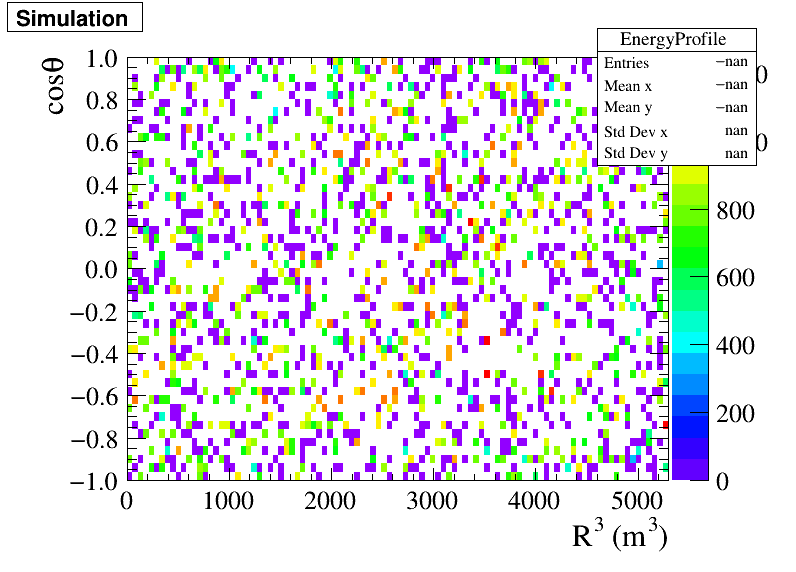
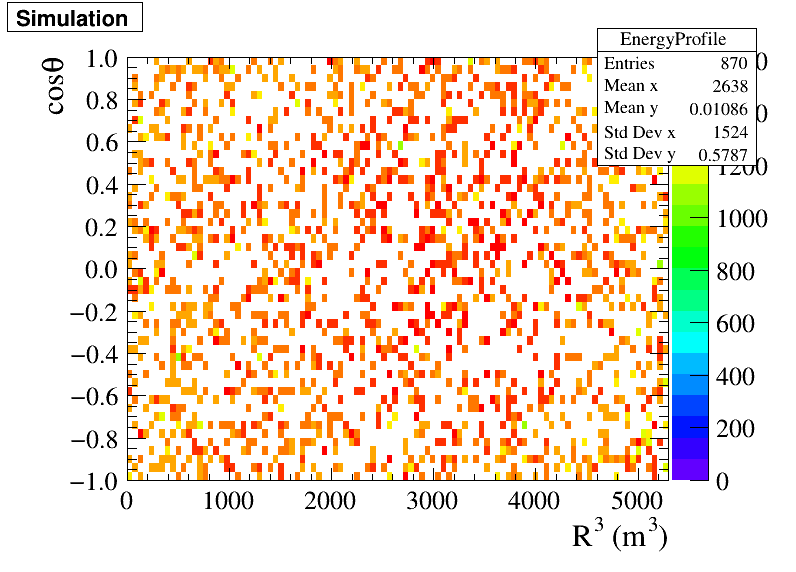
finally there

diff --git a/Roottest/EnergyLeakage/GetPE2R3.h b/Roottest/EnergyLeakage/GetPE2R3.h
@@ -24,8 +24,8 @@
 class GetPE2R3 : public TSelector
 {
 public:
-   TTreeReader evtReader;         //!the tree reader
-   TTree *evt = 0;           //!pointer to the analyzed TTree or TChain
+   TTree *evt = 0;              //!pointer to the analyzed TTree or TChain
+   TTreeReader evtReader;       //!the tree reader
    TTree *prmtrkdep = 0;        //tree friend
    TTreeReader prmtrkdepReader; //!the tree reader
    TTree *geninfo = 0;          //tree friend
@@ -35,18 +35,18 @@ public:
 
    // Readers to access the data (delete the ones you do not need).
    // TTreeReaderValue<Int_t> nPhotons = {evtReader, "nPhotons"};
-   TTreeReaderValue<Int_t> totalPE = {evtReader, "totalPE"};
+   // TTreeReaderValue<Int_t> totalPE = {evtReader, "totalPE"};
    // TTreeReaderArray<Int_t> nPE = {evtReader, "nPE"};
-   TTreeReaderArray<Double_t> hitTime = {evtReader, "hitTime"};
+   // TTreeReaderArray<Double_t> hitTime = {evtReader, "hitTime"};
    // TTreeReaderValue<Float_t> edep = {evtReader, "edep"};
    // TTreeReaderValue<Float_t> edepX = {evtReader, "edepX"};
    // TTreeReaderValue<Float_t> edepY = {evtReader, "edepY"};
    // TTreeReaderValue<Float_t> edepZ = {evtReader, "edepZ"};
-   TTreeReaderArray<Float_t> edep = {prmtrkdepReader, "edep"};
+   // TTreeReaderArray<Float_t> edep = {prmtrkdepReader, "edep"};
    TTreeReaderArray<Float_t> InitX = {geninfoReader, "InitX"};
    TTreeReaderArray<Float_t> InitY = {geninfoReader, "InitY"};
    TTreeReaderArray<Float_t> InitZ = {geninfoReader, "InitZ"};
-   TTreeReaderArray<double> NeutronCaptureT = {nCaptureReader, "NeutronCaptureT"};
+   // TTreeReaderArray<double> NeutronCaptureT = {nCaptureReader, "NeutronCaptureT"};
 
    //outputs
    TH2F *h_ep;
@@ -54,23 +54,23 @@ public:
 
    GetPE2R3(TTree * /*tree*/ = 0) { Reset(); }
    virtual ~GetPE2R3() {}
-   virtual Int_t Version() const { return 2; }
+   virtual Int_t Version() const { return 1; }
    virtual void Begin(TTree *tree);
    virtual void SlaveBegin(TTree *tree);
    virtual void Init(TTree *tree);
    virtual Bool_t Notify();
    virtual Bool_t Process(Long64_t entry);
-   virtual Int_t GetEntry(Long64_t entry, Int_t getall = 0)
-   {
-      TString option = GetOption();
-      // if (option.Contains("prmtrkdep"))
-      //    prmtrkdep->GetTree()->GetEntry(entry, getall);
-      // if (option.Contains("geninfo"))
-      //    geninfo->GetTree()->GetEntry(entry, getall);
-      // if (option.Contains("nCapture"))
-      //    nCapture->GetTree()->GetEntry(entry, getall);
-      return evt ? evt->GetTree()->GetEntry(entry, getall) : 0;
-   }
+   // virtual Int_t GetEntry(Long64_t entry, Int_t getall = 0)
+   // {
+   //    TString option = GetOption();
+   //    if (option.Contains("prmtrkdep"))
+   //       prmtrkdep->GetTree()->GetEntry(entry, getall);
+   //    if (option.Contains("geninfo"))
+   //       geninfo->GetTree()->GetEntry(entry, getall);
+   //    if (option.Contains("nCapture"))
+   //       nCapture->GetTree()->GetEntry(entry, getall);
+   //    return evt ? evt->GetTree()->GetEntry(entry, getall) : 0;
+   // }
    virtual void SetOption(const char *option) { fOption = option; }
    virtual void SetObject(TObject *obj) { fObject = obj; }
    virtual void SetInputList(TList *input) { fInput = input; }

diff --git a/Roottest/EnergyLeakage/GetPE2R3.C b/Roottest/EnergyLeakage/GetPE2R3.C
@@ -32,12 +32,12 @@
 #include <TVector3.h>
 #include <vector>
 #include <cmath>
-#include <TROOT.h>
-#include <TChain.h>
-#include <TSelector.h>
-#include <TTreeReader.h>
-#include <TTreeReaderValue.h>
-#include <TTreeReaderArray.h>
+// #include <TROOT.h>
+// #include <TChain.h>
+// #include <TSelector.h>
+// #include <TTreeReader.h>
+// #include <TTreeReaderValue.h>
+// #include <TTreeReaderArray.h>
 
 void GetPE2R3::Begin(TTree * /*tree*/)
 {
@@ -46,14 +46,15 @@ void GetPE2R3::Begin(TTree * /*tree*/)
    // The tree argument is deprecated (on PROOF 0 is passed).
 
    TString option = GetOption();
+   Reset();
 }
 
-void GetPE2R3::SlaveBegin(TTree * /*tree*/)
+void GetPE2R3::SlaveBegin(TTree *myTree)
 {
    // The SlaveBegin() function is called after the Begin() function.
    // When running with PROOF SlaveBegin() is called on each slave server.
    // The tree argument is deprecated (on PROOF 0 is passed).
-
+   Init(myTree);
    TString option = GetOption();
    h_ep = new TH2F("EnergyProfile", "Simulation", NBinx, Ran_x[0], Ran_x[1], NBiny, Ran_y[0], Ran_y[1]);
    fOutput->Add(h_ep);
@@ -64,7 +65,6 @@ void GetPE2R3::SlaveBegin(TTree * /*tree*/)
    // for (int i = 0; i < TotalBin; i++)
    //    BinValue[i] = 0;
 }
-int ttt = 0;
 Bool_t GetPE2R3::Process(Long64_t entry)
 {
    // The Process() function is called for each entry in the tree (or possibly
@@ -88,28 +88,28 @@ Bool_t GetPE2R3::Process(Long64_t entry)
    evtReader.SetLocalEntry(entry);
    nCaptureReader.SetLocalEntry(entry);
    // printf("time:%f\n", hitTime[1]);
-   nCaptureReader.GetTree()->Draw("NeutronCaptureT>>h_ncap(1,0,1000)", "NeutronCaptureT<1000", "goff", 1, entry);
+   nCaptureReader.GetTree()->Draw("NeutronCaptureT>>h_ncap(1,0,1000)", "", "goff", 1, entry);
    TH1F *h_ncap = (TH1F *)gDirectory->Get("h_ncap");
-   if (!h_ncap->GetEffectiveEntries())
+   if (!(h_ncap->GetEffectiveEntries()))
    {
       TVector3 EvtPos(InitX[0] / 1e3, InitY[0] / 1e3, InitZ[0] / 1e3);
       evtReader.GetTree()->Draw("hitTime>>h_pr", "hitTime<1000", "goff", 1, entry);
       TH1F *h_pr = (TH1F *)gDirectory->Get("h_pr");
-      double PromptCount = h_pr->Integral();
+      double PromptCount = h_pr->GetEffectiveEntries();
       // printf("h_pr:%f\ttotalPE:%d\n", PromptCount,*totalPE);
-      float Photon2edep(PromptCount / (edep[0] + edep[1]));
+      prmtrkdepReader.GetTree()->Draw("edep[0]>>h_edeps(1)", "edep[0]*(1>0)", "goff", 1, entry);
+      TH1F *h_edeps = (TH1F *)gDirectory->Get("h_edeps");
+      // printf("entries:%f\n", h_edeps->GetBinContent(1));
+      float E_dep(h_edeps->GetBinContent(1));
+      float Photon2edep(PromptCount / E_dep);
       // printf("edepra:%f\tra:%f\n", edep[0] / (edep[1] + edep[0]),
       //        (float)PromptCount / *totalPE);
       double R_cubic = pow(EvtPos.Mag2(), 1.5);
       double Costheta = EvtPos.CosTheta();
-      // // printf("x:%f\ty:%f\tz:%f\n", R_cubic, Costheta, Photon2edep);
+      // printf("x:%f\ty:%f\tz:%f\n", R_cubic, Costheta, E_dep);
       h_ep->Fill(R_cubic, Costheta, Photon2edep);
       h_ep_count->Fill(R_cubic, Costheta);
    }
-   // else
-   // {
-   //    // printf("less\n");
-   // }
 
    return kTRUE;
 }
